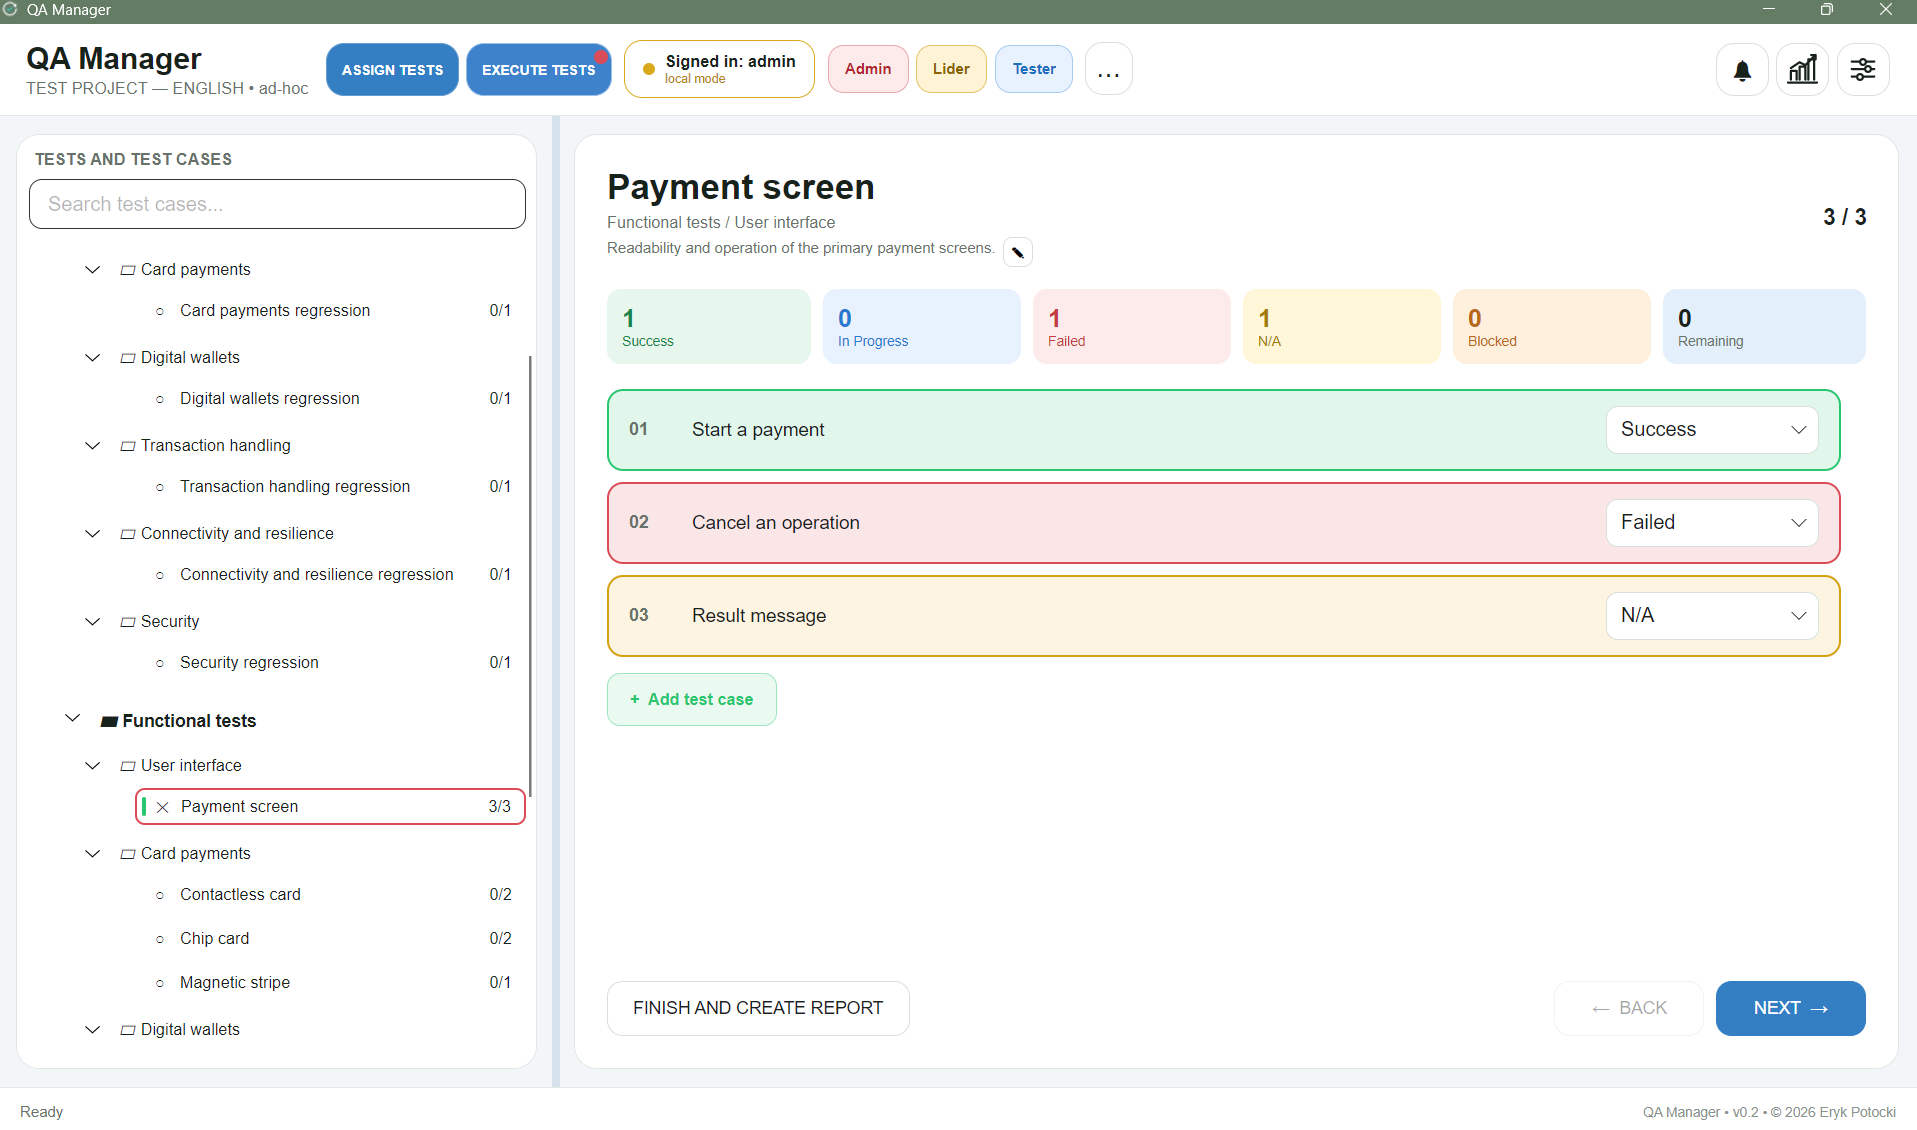
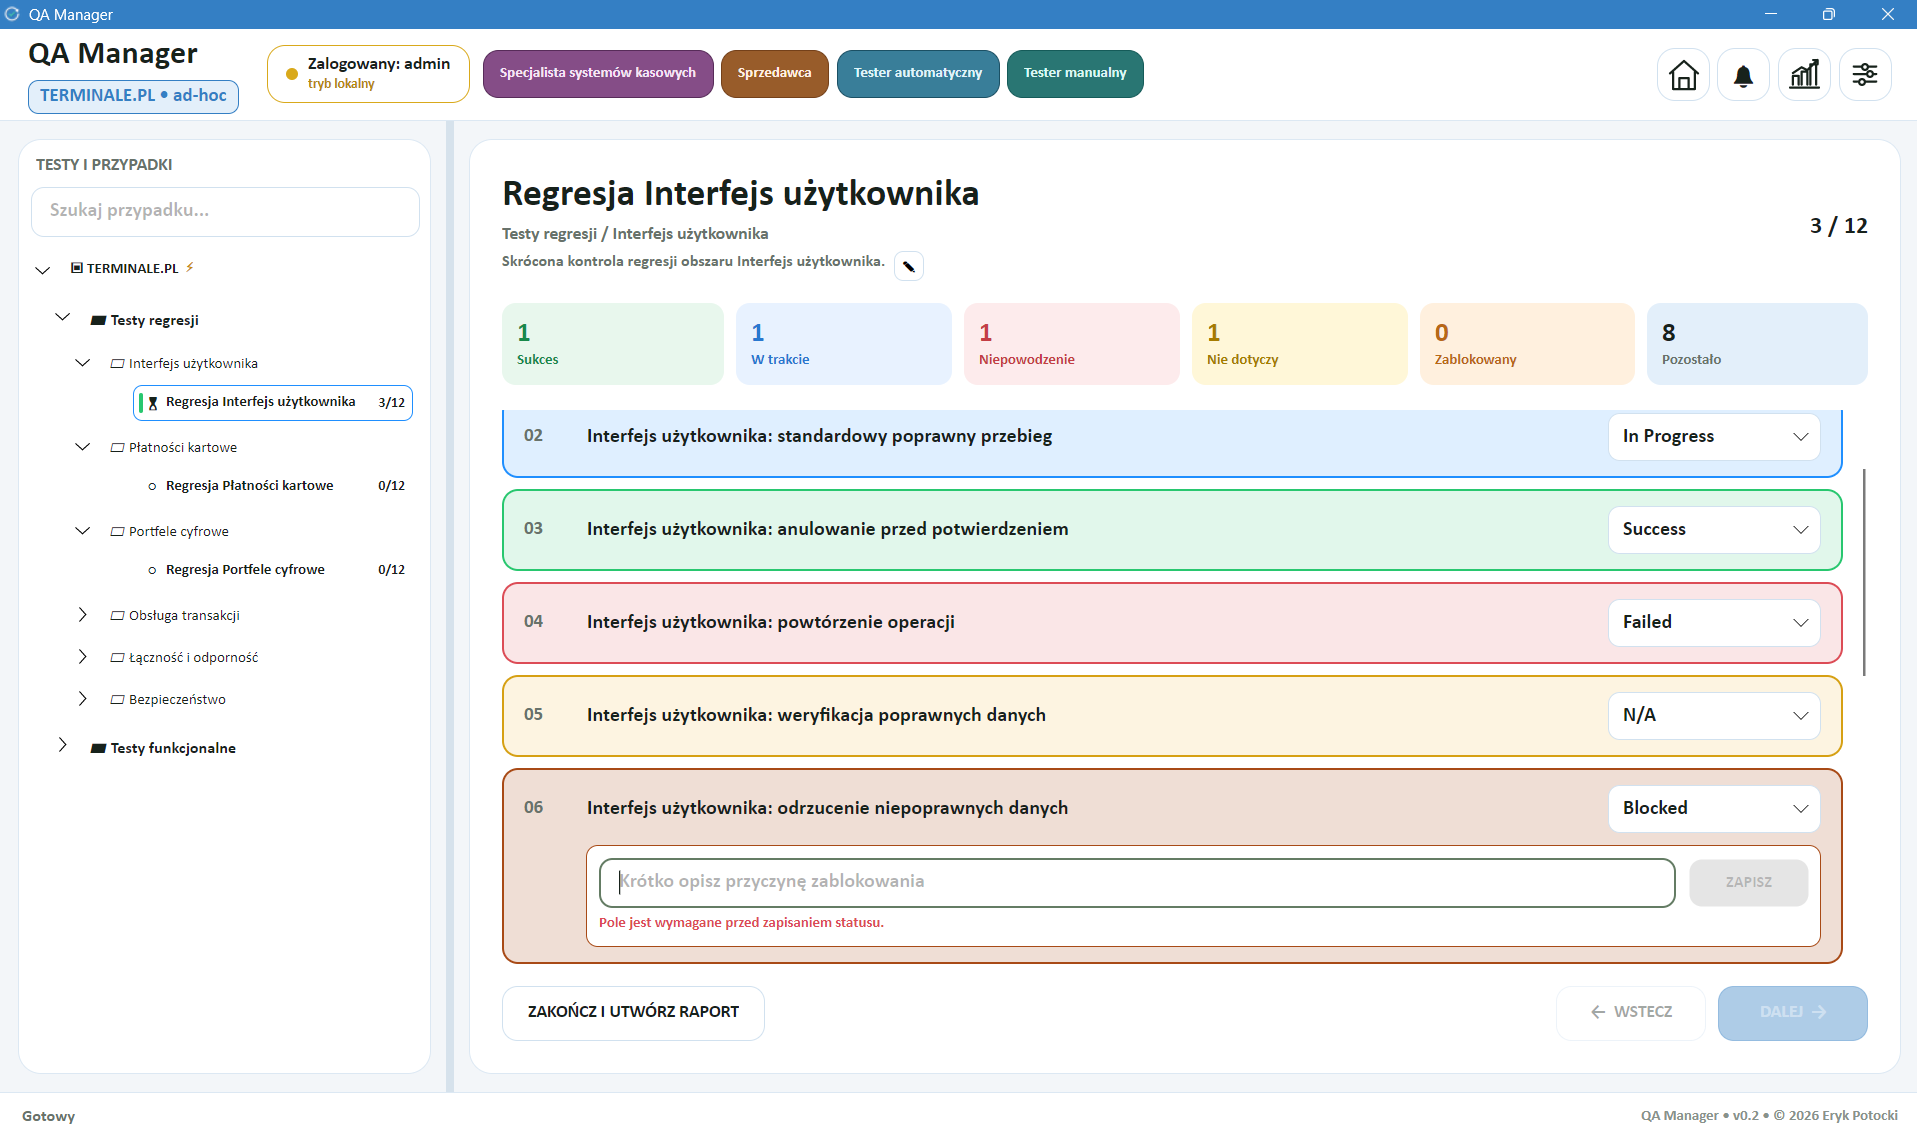
docs: refresh README and interface screenshots

diff --git a/README.md b/README.md
@@ -4,7 +4,7 @@
   <p>Desktop application for managing manual test cases, assignments, execution sessions and QA progress.</p>
 </div>
 
-> Project status: active development, version line `v0.2.x`.
+> Project status: active development. Current public build: `v0.2.4`.
 
 ## Download for Windows
 
@@ -12,35 +12,49 @@
 
 The installer contains a self-contained Windows x64 build, so installing the .NET SDK is not required. Windows may display a SmartScreen warning because this development build is not digitally signed.
 
+The `main` branch can contain newer completed changes than the packaged installer. The installer is refreshed only when a new Windows build is prepared.
+
[1 lines of base64/hex data omitted]
 
 ## Interface preview
 
-### Test explorer and ad-hoc execution
+### Test execution
 
 ![QA Manager test explorer](docs/screenshots/02-test-explorer.png)
 
-| Sign-in | Assigned-test tutorial |
+### Sign-in and personalization
+
+| Sign-in | Appearance settings |
 | --- | --- |
-| ![QA Manager sign-in](docs/screenshots/01-sign-in.png) | ![Assigned-test tutorial](docs/screenshots/03-assigned-test-tutorial.png) |
+| ![QA Manager sign-in](docs/screenshots/01-sign-in.png) | ![Application appearance settings](docs/screenshots/07-application-settings.png) |
 
-| Assigned test execution | Notification center |
+### Assignment workflow
+
+| Assignment editor | Assignment summary |
 | --- | --- |
-| ![Assigned test execution](docs/screenshots/04-assigned-test-execution.png) | ![Notification center](docs/screenshots/05-notification-center.png) |
+| ![Test assignment editor](docs/screenshots/03-assignment-editor.png) | ![Assignment summary](docs/screenshots/04-assignment-summary.png) |
 
-### Appearance settings
+### Team progress and notifications
 
-![Application appearance settings](docs/screenshots/06-application-settings.png)
+| Progress dashboard | Notification center |
+| --- | --- |
+| ![Team progress dashboard](docs/screenshots/05-progress-dashboard.png) | ![Notification center](docs/screenshots/06-notification-center.png) |
 
-The screenshots show the English interface in the Light theme. The same workflow is available in Polish and in the Dark theme.
+### Administration and resumable execution
+
+| Project-role management | Pause and resume later |
+| --- | --- |
+| ![Project-role management](docs/screenshots/08-role-management.png) | ![Pause assigned tests and return later](docs/screenshots/09-pause-and-resume.png) |
+
+The screenshots intentionally show different languages, themes, fonts and accent colors. These appearance choices are stored per local profile and do not change the test data.
 
 ### Main application screens
 
 | Screen | Purpose |
 | --- | --- |
-| Sign-in and project selection | Authenticate a local profile, change the initial PIN and choose an available demonstration project. |
+| Sign-in and project selection | Authenticate a profile, replace the initial PIN and choose a project available through its assigned roles. |
 | Test explorer | Browse folders, collections and cases; run ad-hoc or assigned tests and add comments. |
-| Assignment editor | Select a recipient, version and test scope; save reusable session-name and version suggestions locally. |
+| Assignment editor | Select an eligible recipient, version and test scope; recipients without access to the current project cannot receive its tests. |
 | Progress dashboard | Review active, completed and archived assignment packages and generate team reports. |
 | Notification center | Display private assignment and completion notifications for the signed-in profile. |
 | Application settings | Change language, Light/Dark theme, accent color, font, text size and weight. |
@@ -53,6 +67,7 @@ The screenshots show the English interface in the Light theme. The same workflow
 - hierarchical projects, folders, collections and test cases,
 - Admin, Leader and Tester system roles plus configurable project roles,
 - assignment packages, private notifications and team progress dashboard,
+- recipient filtering and service-level validation based on project access,
 - active, completed and archived session tracking,
 - pausing unfinished assigned tests and resuming them later without submitting results,
 - reusable session-name and version suggestions with local removal controls,
@@ -68,19 +83,20 @@ A fresh installation creates only synthetic demonstration accounts:
 | Login | Initial PIN | System role | Default project access |
 | --- | --- | --- | --- |
 | `admin` | `000000` | Admin, Leader, Tester | All demonstration projects |
-| `leader` | `000000` | Leader | None until assigned by Admin |
-| `tester1` | `000000` | Tester | None until assigned by Admin |
-| `tester2` | `000000` | Tester | None until assigned by Admin |
+| `leader` | `000000` | Leader | `TERMINALE.PL`, `OGRODY.PL` |
+| `tester1` | `000000` | Tester | `TERMINALE.PL`, `POGODA.PL` |
+| `tester2` | `000000` | Tester | `TERMINALE.PL`, `SAMOCHODY.PL` |
+| `tester3` | `000000` | Tester | `TERMINALE.PL`, `SZPITAL.PL` |
 
-The application requires each account to replace the initial PIN with a new six-digit PIN during its first sign-in. A global test reset restores every demonstration profile to `000000` and requires the PIN to be changed again. PINs are stored only as salted hashes in the local Windows profile; plaintext PINs are not included in the repository or installer.
+The application requires each account to replace the public demonstration PIN with a new six-digit PIN during its first sign-in. A global test reset sets every existing account back to `000000` and requires another PIN change. User-defined PINs are never stored in plaintext: only salted hashes are saved in the active local or host data store.
 
 These accounts and all included test cases are fictional and are not associated with any company or real person.
 
-The Admin profile also demonstrates several colored custom QA roles: `QA Analyst`, `Automation Engineer`, `Test Architect` and `Quality Observer`. They have no project access by default and can be freely edited or removed in role management.
+The Admin profile also demonstrates colored QA roles such as `QA Analyst`, `Automation Engineer`, `Test Architect` and `Quality Observer`. Project-role membership controls which non-admin profiles can open a project and receive its assignments; roles can be edited in the management screens.
 
 ## Clean local state
 
-The repository contains source code and neutral seed definitions only. On first launch, every downloaded copy creates its own local:
+The repository and installer contain source/build artifacts and neutral seed definitions, but no working user data. In local mode, the application uses a separate Windows-profile data store that can contain:
 
 - profiles and PIN hashes,
 - projects and demonstration test cases,
@@ -88,15 +104,15 @@ The repository contains source code and neutral seed definitions only. On first 
 - language, theme, font and accent preferences,
 - synchronization certificates and connection tokens.
 
-Changing the Admin theme, executing a test or creating an account affects only the local application data. These values are stored under the operating-system application-data directory and are excluded from Git. They are never committed automatically.
+Changing the Admin theme, executing a test or creating an account affects the active data store only. Local-mode data is kept under the operating-system application-data directory and excluded from Git. In host/client mode, authorized computers use the encrypted host data store instead. Runtime data is never committed automatically.
 
-The default state for a fresh installation is English, Light theme, Blue accent, Calibri, standard text size and regular text weight. A global reset also removes assignments, notifications, execution sessions, statuses, comments and saved form suggestions while leaving the synthetic projects and role definitions available for another clean test cycle.
+The default state for a fresh installation is English, Light theme, Blue accent, Calibri, standard text size and regular text weight. A global reset removes assignments, notifications, execution sessions, statuses, comments and saved form suggestions; resets all existing account PINs and appearance preferences; and leaves accounts, roles, projects and the synthetic test catalog available for another clean cycle.
 
 An update installed over an existing copy preserves that computer's local working data. To test the true first-run experience, install on a new Windows profile or use the secured global reset inside the application.
 
 ## Default demonstration data
 
-Admin has access to eight neutral demonstration projects:
+Admin has access to all eight neutral demonstration projects. Other profiles receive access through project roles:
 
 | Project | Demonstration area |
 | --- | --- |
@@ -114,7 +130,7 @@ Their folders, collections and test cases are generated locally from determinist
 ## Technology
 
 - C# and .NET 10
-- Avalonia UI 12
+- Avalonia UI 12.1.0
 - CommunityToolkit.Mvvm
 - ClosedXML
 - PDFsharp and MigraDoc
@@ -139,7 +155,7 @@ The `scripts/Build-Installer.ps1` script and `installer/QARegressionManager.iss`
 
 ## Data and security
 
-No real user data, company data, PINs, generated certificates, connection files, access tokens, reports or local sessions are stored in this repository.
+No real user data, company data, user-defined PINs, generated certificates, connection files, access tokens, reports or local sessions are stored in this repository. The public demonstration PIN `000000` is seed data only and must be replaced during first sign-in.
 
 Host/client synchronization uses HTTPS, certificate fingerprint verification and a randomly generated access token. The address displayed by the synchronization screen is detected locally on the computer running the application; it is not taken from this repository. A generated connection file is confidential and should be shared only with authorized users.
 
@@ -157,7 +173,7 @@ Host/client synchronization uses HTTPS, certificate fingerprint verification and
 
 ## Polish summary
 
-QA Manager to aplikacja desktopowa do zarządzania testami manualnymi, przypisaniami, sesjami i raportami. Świeża instalacja uruchamia się po angielsku, w jasnym motywie i zawiera wyłącznie neutralne profile `admin`, `leader`, `tester1`, `tester2` oraz osiem syntetycznych projektów. Początkowy PIN każdego profilu to `000000` i musi zostać zmieniony przy pierwszym logowaniu. Wszystkie hashe PIN-ów, wyniki, ustawienia wyglądu, tokeny i dane synchronizacji są zapisywane lokalnie i nie trafiają do repozytorium.
+QA Manager to aplikacja desktopowa do zarządzania testami manualnymi, przypisaniami, sesjami i raportami. Świeża instalacja uruchamia się po angielsku, w jasnym motywie i zawiera neutralne profile `admin`, `leader`, `tester1`, `tester2`, `tester3` oraz osiem syntetycznych projektów. Każdy profil poza administratorem ma domyślnie dostęp do `TERMINALE.PL` i jednego dodatkowego projektu. Początkowy PIN to `000000` i musi zostać zmieniony przy pierwszym logowaniu. Testy można przypisać wyłącznie osobie mającej dostęp do danego projektu. Dane robocze, hashe PIN-ów, ustawienia wyglądu, tokeny i dane synchronizacji nie trafiają do repozytorium.
 
 ## License
 

diff --git a/docs/changelog/CHANGELOG-v0.2.4.md b/docs/changelog/CHANGELOG-v0.2.4.md
@@ -10,5 +10,8 @@ Zmiany względem v0.2.3.
 - Poprawiono wielokrotne przełączanie motywu, kontrast tekstu, grubość i rozmiar czcionki oraz natychmiastowe stosowanie koloru dominującego.
 - Kolor dominujący obejmuje zakładki i akcje dashboardu, przycisk wysyłania przypisań oraz natywne paski wszystkich okien Windows.
 - Dodano możliwość przerwania nieukończonych testów, zachowania postępu i późniejszego wznowienia przypisania bez wysyłania wyników.
+- Dodano profil demonstracyjny `tester3` oraz stały, zróżnicowany dostęp profili demonstracyjnych do `TERMINALE.PL` i drugiego projektu.
+- Zablokowano przypisywanie testów profilom bez dostępu do danego projektu, zarówno na liście odbiorców, jak i podczas zapisu.
+- Licznik „Pozostało” obejmuje teraz również przypadki ze statusem „W trakcie”.
 - Globalny reset czyści PIN-y do wartości testowej `000000`, przypisania, sesje, powiadomienia, wyniki, komentarze i zapisane podpowiedzi formularzy; przywraca język angielski i domyślny wygląd.
 - Zabezpieczono proces wydania przed dołączeniem lokalnych profili, przypisań, ustawień, danych synchronizacji, certyfikatów i baz danych.

diff --git a/docs/changelog/CHANGELOG.md b/docs/changelog/CHANGELOG.md
@@ -10,5 +10,8 @@ Zmiany względem v0.2.3.
 - Poprawiono wielokrotne przełączanie motywu, kontrast tekstu, grubość i rozmiar czcionki oraz natychmiastowe stosowanie koloru dominującego.
 - Kolor dominujący obejmuje zakładki i akcje dashboardu, przycisk wysyłania przypisań oraz natywne paski wszystkich okien Windows.
 - Dodano możliwość przerwania nieukończonych testów, zachowania postępu i późniejszego wznowienia przypisania bez wysyłania wyników.
+- Dodano profil demonstracyjny `tester3` oraz stały, zróżnicowany dostęp profili demonstracyjnych do `TERMINALE.PL` i drugiego projektu.
+- Zablokowano przypisywanie testów profilom bez dostępu do danego projektu, zarówno na liście odbiorców, jak i podczas zapisu.
+- Licznik „Pozostało” obejmuje teraz również przypadki ze statusem „W trakcie”.
 - Globalny reset czyści PIN-y do wartości testowej `000000`, przypisania, sesje, powiadomienia, wyniki, komentarze i zapisane podpowiedzi formularzy; przywraca język angielski i domyślny wygląd.
 - Zabezpieczono proces wydania przed dołączeniem lokalnych profili, przypisań, ustawień, danych synchronizacji, certyfikatów i baz danych.
